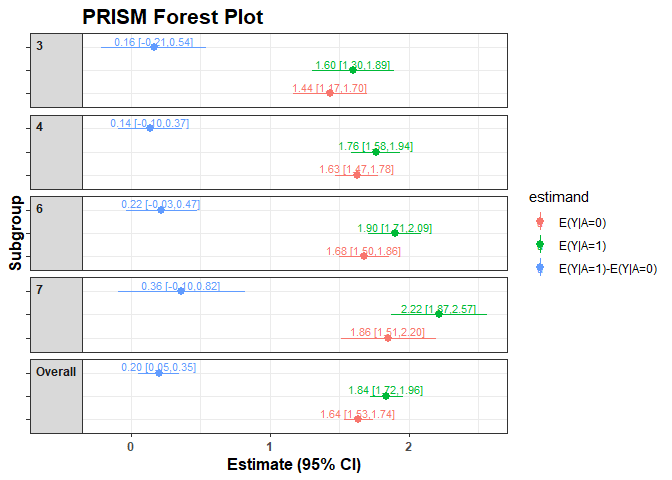
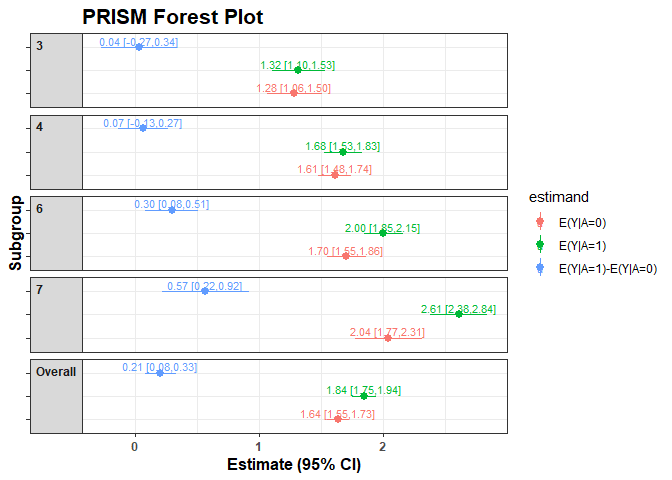
Updated figures

diff --git a/README.md b/README.md
@@ -77,38 +77,38 @@ plot(res0$submod.fit$mod)
 ``` r
 ## Overall/subgroup specific parameter estimates/inference
 res0$param.dat
-#>    Subgrps   N          estimand       est         SE         LCL
-#> 1        0 800          E(Y|A=0) 1.6388450 0.05389889  1.53304489
-#> 2        0 800          E(Y|A=1) 1.8390738 0.06026975  1.72076804
-#> 3        0 800 E(Y|A=1)-E(Y|A=0) 0.2002288 0.07625826  0.05053855
-#> 4        3 149          E(Y|A=0) 1.4350696 0.13346377  1.17132883
-#> 5        3 149          E(Y|A=1) 1.5989985 0.14895625  1.30464272
-#> 6        3 149 E(Y|A=1)-E(Y|A=0) 0.1639289 0.19134782 -0.21419779
-#> 7        4 277          E(Y|A=0) 1.6262684 0.07905851  1.47063408
-#> 8        4 277          E(Y|A=1) 1.7630294 0.09070726  1.58446338
-#> 9        4 277 E(Y|A=1)-E(Y|A=0) 0.1367610 0.11828108 -0.09608672
-#> 10       6 267          E(Y|A=0) 1.6788166 0.09052970  1.50057066
-#> 11       6 267          E(Y|A=1) 1.8995220 0.09614313  1.71022365
-#> 12       6 267 E(Y|A=1)-E(Y|A=0) 0.2207054 0.12863914 -0.03257507
-#> 13       7 107          E(Y|A=0) 1.8554233 0.17218365  1.51405244
-#> 14       7 107          E(Y|A=1) 2.2194088 0.17545332  1.87155556
-#> 15       7 107 E(Y|A=1)-E(Y|A=0) 0.3639856 0.23182371 -0.09562749
+#>    Subgrps   N          estimand        est         SE         LCL
+#> 1        0 800          E(Y|A=0) 1.63776866 0.04569877  1.54806484
+#> 2        0 800          E(Y|A=1) 1.84286992 0.04866618  1.74734124
+#> 3        0 800 E(Y|A=1)-E(Y|A=0) 0.20510125 0.06328619  0.08087441
+#> 4        3 149          E(Y|A=0) 1.28263595 0.11176578  1.06177307
+#> 5        3 149          E(Y|A=1) 1.31794039 0.10980919  1.10094399
+#> 6        3 149 E(Y|A=1)-E(Y|A=0) 0.03530445 0.15439447 -0.26979794
+#> 7        4 277          E(Y|A=0) 1.60937815 0.06712763  1.47723094
+#> 8        4 277          E(Y|A=1) 1.67799950 0.07693142  1.52655259
+#> 9        4 277 E(Y|A=1)-E(Y|A=0) 0.06862135 0.10088192 -0.12997442
+#> 10       6 267          E(Y|A=0) 1.70388830 0.07873786  1.54885957
+#> 11       6 267          E(Y|A=1) 2.00040347 0.07843103  1.84597887
+#> 12       6 267 E(Y|A=1)-E(Y|A=0) 0.29651517 0.10890629  0.08208715
+#> 13       7 107          E(Y|A=0) 2.04080610 0.13504592  1.77306443
+#> 14       7 107          E(Y|A=1) 2.60756289 0.11565560  2.37826441
+#> 15       7 107 E(Y|A=1)-E(Y|A=0) 0.56675679 0.17669715  0.21643749
 #>          UCL          pval
-#> 1  1.7446452 1.601252e-135
-#> 2  1.9573795 3.482672e-136
-#> 3  0.3499190  8.813376e-03
-#> 4  1.6988103  2.746867e-20
-#> 5  1.8933543  3.061527e-20
-#> 6  0.5420557  3.929921e-01
-#> 7  1.7819027  1.214684e-57
-#> 8  1.9415953  1.303949e-53
-#> 9  0.3696087  2.485840e-01
-#> 10 1.8570625  7.633166e-50
-#> 11 2.0888204  4.277946e-54
-#> 12 0.4739859  8.738245e-02
-#> 13 2.1967941  9.947318e-19
-#> 14 2.5672621  6.568918e-23
-#> 15 0.8235986  1.193731e-01
+#> 1  1.7274725 1.879424e-168
+#> 2  1.9383986 1.723772e-180
+#> 3  0.3293281  1.241074e-03
+#> 4  1.5034988  3.314673e-22
+#> 5  1.5349368  1.324710e-23
+#> 6  0.3404068  8.194458e-01
+#> 7  1.7415254  1.972697e-69
+#> 8  1.8294464  5.334423e-62
+#> 9  0.2672171  4.969388e-01
+#> 10 1.8589170  1.363658e-60
+#> 11 2.1548281  2.029409e-73
+#> 12 0.5109432  6.903964e-03
+#> 13 2.3085478  3.359840e-28
+#> 14 2.8368614  3.054161e-42
+#> 15 0.9170761  1.770848e-03
 ## Forest plot: Overall/subgroup specific parameter estimates (CIs)
 plot(res0, type="forest")
 ```
